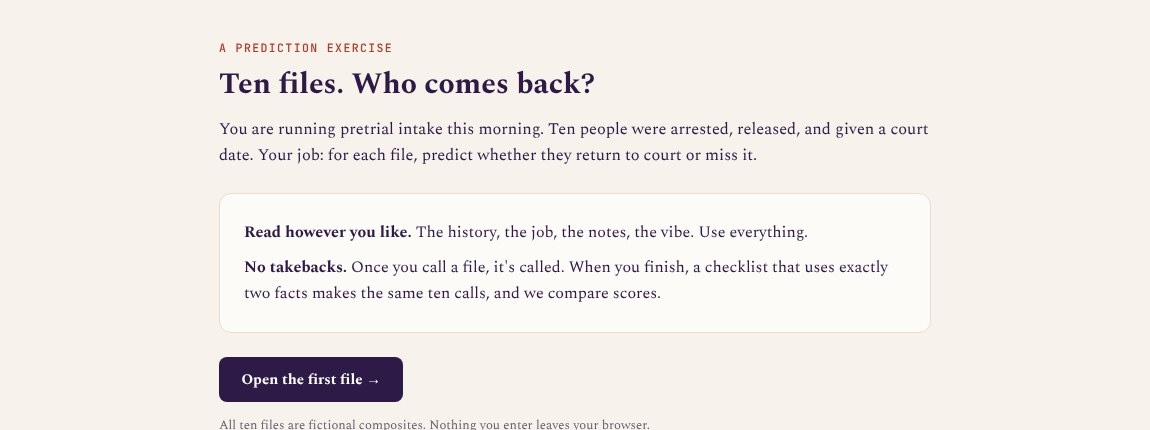
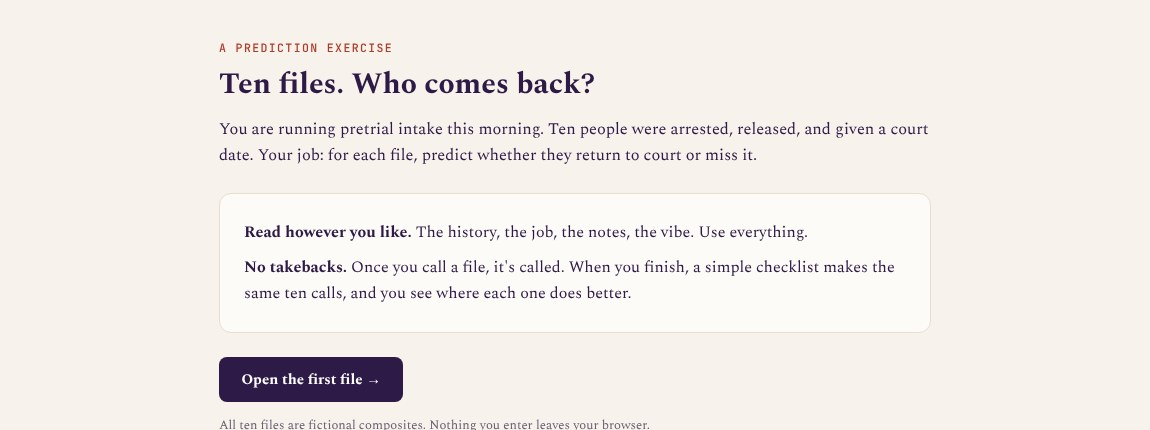
Trust Your Gut: soften the intro's checklist line, retake thumbnail
Option C, maintainer-picked, matching the Teaching card's wording.

Claude-Session: https://claude.ai/code/session_0191t4cG3m6aQycW3EiNAUvs

Changed region(s): [[0.213, 0.6651, 0.5783, 0.6953], [0.6087, 0.6047, 0.7913, 0.6349]]

diff --git a/gut/app/_template.html b/gut/app/_template.html
@@ -254,8 +254,8 @@
       <p style="margin-bottom:0.6rem;"><b>Read however you like.</b> The history, the job,
         the notes, the vibe. Use everything.</p>
       <p style="margin-bottom:0;"><b>No takebacks.</b> Once you call a file, it's called.
-        When you finish, a checklist that uses exactly two facts makes the same ten
-        calls, and we compare scores.</p>
+        When you finish, a simple checklist makes the same ten calls, and you see
+        where each one does better.</p>
     </div>
 
     <button class="btn btn-primary" id="go-cases">Open the first file →</button>

diff --git a/CLAUDE.md b/CLAUDE.md
@@ -1095,7 +1095,13 @@ that the whole group is imaginary.
   each is a 1150x430 crop of the exercise's opening screen starting just
   below the white `#progress` strip (y = 156), so neither the ink header nor
   the strip's dark active step shows. `thumb-periodic.jpg` keeps its dark
-  header on purpose, because the coloured tiles are the draw. Teaching is one section:
+  header on purpose, because the coloured tiles are the draw. The light Gut
+  crop made the exercise's opening legible on the card, so its "No takebacks"
+  line in `gut/app/_template.html` changed the same day (maintainer's pick,
+  option C) to match the card: "a simple checklist makes the same ten calls,
+  and you see where each one does better" (was "a checklist that uses exactly
+  two facts makes the same ten calls, and we compare scores"). Retake that
+  thumbnail if the intro changes again. Teaching is one section:
   Warm-Ups (`01 · short exercises`). The notes below describe the page as it
   was before the split and stay as history.
   **Teaching refinement (2026-09-29, every string maintainer-picked):**
